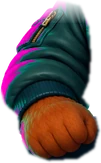
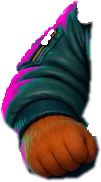
Bear model: a whole left shoulder, and a fall without stretching
- The lowered arm is cut with its shoulder up to the collar, so the left shoulder mirrors the right one; the body's
  own left shoulder, painted raised for the raised arm, is removed where it would poke above it (the raised arm's
  layer behind the body shows the painted shoulder again when the arm is up). No collar fur came along.
- Falling: the whole bear tumbles; arms and legs only flop a little, slowly and out of step. The fast, wide turns
  bent the picture between the bones and stretched it. The fall's limb bones reach less far, so a limb moves as a unit.

Claude-Session: https://claude.ai/code/session_01AFxZjKuoUT6AKwiWhu7iae

diff --git a/app/proto/rig.js b/app/proto/rig.js
@@ -58,12 +58,12 @@ const HANG={w:473,h:749,anchor:[211,88],
 const FALL={w:569,h:678,anchor:[283,400],
   bones:[
     {n:'root',p:[283,400]},
-    {n:'torso',par:'root',p:[205,335],tip:[335,470],s:74},
-    {n:'head',par:'root',p:[250,275],tip:[213,170],s:70},
-    {n:'armL',par:'root',p:[158,332],tip:[66,290],s:44},
-    {n:'armR',par:'root',p:[380,205],tip:[428,62],s:44},
-    {n:'legR',par:'root',p:[420,442],tip:[512,410],s:50},
-    {n:'legL',par:'root',p:[300,505],tip:[352,630],s:54}],
+    {n:'torso',par:'root',p:[205,335],tip:[335,470],s:90},
+    {n:'head',par:'root',p:[250,275],tip:[213,170],s:52},
+    {n:'armL',par:'root',p:[150,330],tip:[50,285],s:32},
+    {n:'armR',par:'root',p:[372,215],tip:[436,40],s:32},
+    {n:'legR',par:'root',p:[410,445],tip:[530,400],s:36},
+    {n:'legL',par:'root',p:[300,510],tip:[360,650],s:38}],
   layers:[{img:'fall',bones:['root','torso','head','armL','armR','legR','legL']}]};
 const SKINS={sit:SIT,hang:HANG,fall:FALL};
 const FILES=['body','arm','arm-low','head-calm','head-hype','head-scared','head-win','hang','fall'];
@@ -194,10 +194,11 @@ function create(kit,variant,opt){
       to(Q('chest'),s(.55)*A*.5,7,.35,dt);to(Q('hips'),s(1)*A*.7,6,.3,dt);to(Q('head'),s(.4)*A*.6+.04,9,.4,dt);
       to(Q('legL'),s(1.5)*A*1.3+Math.sin(t*3.1)*.04,5.5,.25,dt);to(Q('legR'),s(1.8)*A*1.1-Math.sin(t*3.1+1)*.04,5.5,.25,dt)
     }else{
-      // falling: arms and legs flail, each at its own rate (the game's fall pose)
+      // falling: the whole bear tumbles (the scene turns him); arms and legs only flop a little, slowly and out of
+      // step, like a rag doll's. Fast or wide turns bend the picture between the bones and stretch it.
       const f=(a,b)=>Math.sin(t*a+b);
-      to(Q('head'),f(7,0)*.2,14,.4,dt);to(Q('armL'),f(17,0)*.34,20,.4,dt);to(Q('armR'),f(16,3)*.3,20,.4,dt);
-      to(Q('legR'),f(18,0)*.26,18,.4,dt);to(Q('legL'),f(19,1)*.28,18,.4,dt);Q('torso').sy=1+f(15,1)*.012}
+      to(Q('head'),f(3.1,0)*.06,9,.45,dt);to(Q('armL'),f(4.3,0)*.11,8,.4,dt);to(Q('armR'),f(3.7,2)*.1,8,.4,dt);
+      to(Q('legR'),f(3.4,1)*.08,7,.4,dt);to(Q('legL'),f(3.9,3)*.08,7,.4,dt)}
     // world matrices, parents first
     const S=K.S;for(let i=0;i<S.bones.length;i++){const b=S.bones[i],L=local(b,K.q[i]);K.M[i]=b.par?mul(K.M[K.bi[b.par]],L):L}}
 

diff --git a/art-kits/tools/bear_rig_lowarm.py b/art-kits/tools/bear_rig_lowarm.py
@@ -13,14 +13,13 @@ src = Image.open(S + '/cheer.png').convert('RGBA')
 W, H = src.size
 AXIS = 235            # mirror line: the right shoulder (330) lands on the left one (140)
 # the right arm, shoulder to fist (picture px of the 407x600 sitting bear)
-ARM = [(300, 270), (330, 262), (352, 278), (370, 298), (379, 320), (381, 345), (374, 368), (361, 380), (359, 400),
-       (350, 418), (330, 425), (302, 423), (286, 413), (281, 395), (286, 376), (298, 362), (291, 345), (289, 320), (291, 292)]
+# the right arm with its shoulder up to the collar fur, shoulder to fist (picture px of the 407x600 sitting bear)
+ARM = [(292, 252), (306, 246), (326, 252), (346, 266), (366, 290), (378, 318), (381, 345), (374, 368), (361, 380),
+       (359, 400), (350, 418), (330, 425), (302, 423), (286, 413), (281, 395), (286, 376), (298, 362), (291, 345),
+       (289, 320), (290, 290), (288, 268)]
 m = Image.new('L', (W, H), 0); ImageDraw.Draw(m).polygon(ARM, fill=255); m = m.filter(ImageFilter.GaussianBlur(1.1))
 a = np.asarray(src).astype(np.float32)
 a[..., 3] *= np.asarray(m).astype(np.float32) / 255
-# the top of the sleeve melts into the body's own shoulder instead of ending in a cut
-yy = np.arange(H)[:, None].astype(np.float32)
-a[..., 3] *= np.clip((yy - 262) / 26, 0, 1) ** 1.3
 # relight: the teal rim turns magenta (red and green swap where the colour is a bright cyan)
 r, g, b = a[..., 0].copy(), a[..., 1].copy(), a[..., 2].copy()
 cyan = np.clip((g - r - 40) / 60, 0, 1) * np.clip((g + b - 230) / 120, 0, 1)
@@ -31,7 +30,30 @@ img = Image.fromarray(np.clip(a, 0, 255).astype(np.uint8), 'RGBA').transpose(Ima
 dx = 2 * AXIS - (W - 1)
 box = img.getchannel('A').point(lambda v: 255 if v > 8 else 0).getbbox()
 crop = img.crop(box)
+# no collar fur on the shoulder: the right collar's edge came along with the cut
+c = np.asarray(crop).copy(); ci = c.astype(np.int32)
+fur = (ci[..., 0] > 150) & (ci[..., 1] > 120) & (ci[..., 2] > 80) & (np.abs(ci[..., 0] - ci[..., 1]) < 70)
+fur = np.asarray(Image.fromarray((fur * 255).astype(np.uint8)).filter(ImageFilter.MaxFilter(3))) > 0
+c[..., 3] = np.where(fur, 0, c[..., 3]); crop = Image.fromarray(c, 'RGBA')
 at = [box[0] + dx, box[1]]
 crop.save('app/art/bear/rig/arm-low.webp', quality=90, method=6)
 json.dump({'at': at, 'size': crop.size}, open(S + '/armlow.json', 'w'))
+# the body's own left shoulder is painted raised (it carries the raised arm): wherever it pokes above the mirrored
+# shoulder, it goes; the collar fur stays. When the arm is raised, the raised arm's layer (behind the body) shows the
+# painted shoulder there again.
+body = np.asarray(Image.open(S + '/L_body.png')).copy()
+al = np.zeros((H, W), np.float32); ca = np.asarray(crop.getchannel('A')).astype(np.float32) / 255
+al[at[1]:at[1] + ca.shape[0], at[0]:at[0] + ca.shape[1]] = ca
+top = np.full(W, H, np.int32)
+for x in range(W):
+    ys = np.where(al[:, x] > .5)[0]
+    if len(ys): top[x] = ys[0]
+yy, xx = np.mgrid[0:H, 0:W]
+bb = body.astype(np.int32); r, g, b = bb[..., 0], bb[..., 1], bb[..., 2]
+cream = (r > 150) & (g > 120) & (b > 80) & (np.abs(r - g) < 70)
+gone = (xx < 172) & (yy > 200) & (yy < top[xx] + 3) & (top[xx] < H) & ~cream
+gone |= (xx < 100) & (yy > 200) & (yy < 300)          # left of the mirrored shoulder: nothing of the body
+body[..., 3] = np.where(gone, 0, body[..., 3])
+Image.fromarray(body, 'RGBA').save(S + '/L_body_low.png')
+Image.fromarray(body, 'RGBA').save('app/art/bear/rig/body.webp', quality=90, method=6)
 print('arm-low', crop.size, 'at', at)

diff --git a/art-kits/tools/bear_rig_layers.py b/art-kits/tools/bear_rig_layers.py
@@ -44,7 +44,7 @@ sa=stub*(Bd[...,3]<40)*(B[...,3]>40)
 col=np.array([86,40,16],np.float32)+((yy-150)/100)[...,None]*np.array([40,20,8],np.float32)
 for c in range(3):Bd[...,c]=np.where(sa>0,col[...,c],Bd[...,c])
 Bd[...,3]=np.maximum(Bd[...,3],sa*255)
-Bd[...,3]=np.where((xx<138)&(yy<232),0,Bd[...,3])   # a stroke of the arm cut left of the head
+Bd[...,3]=np.where((xx<152)&(yy<224),0,Bd[...,3])   # a stroke of the arm cut left of the head
 Image.fromarray(np.clip(Bd,0,255).astype(np.uint8),'RGBA').save(S+'/L_body.png')
 # exploded preview
 sh=Image.new('RGB',(W*3+40,H),'#5a4a7a')
